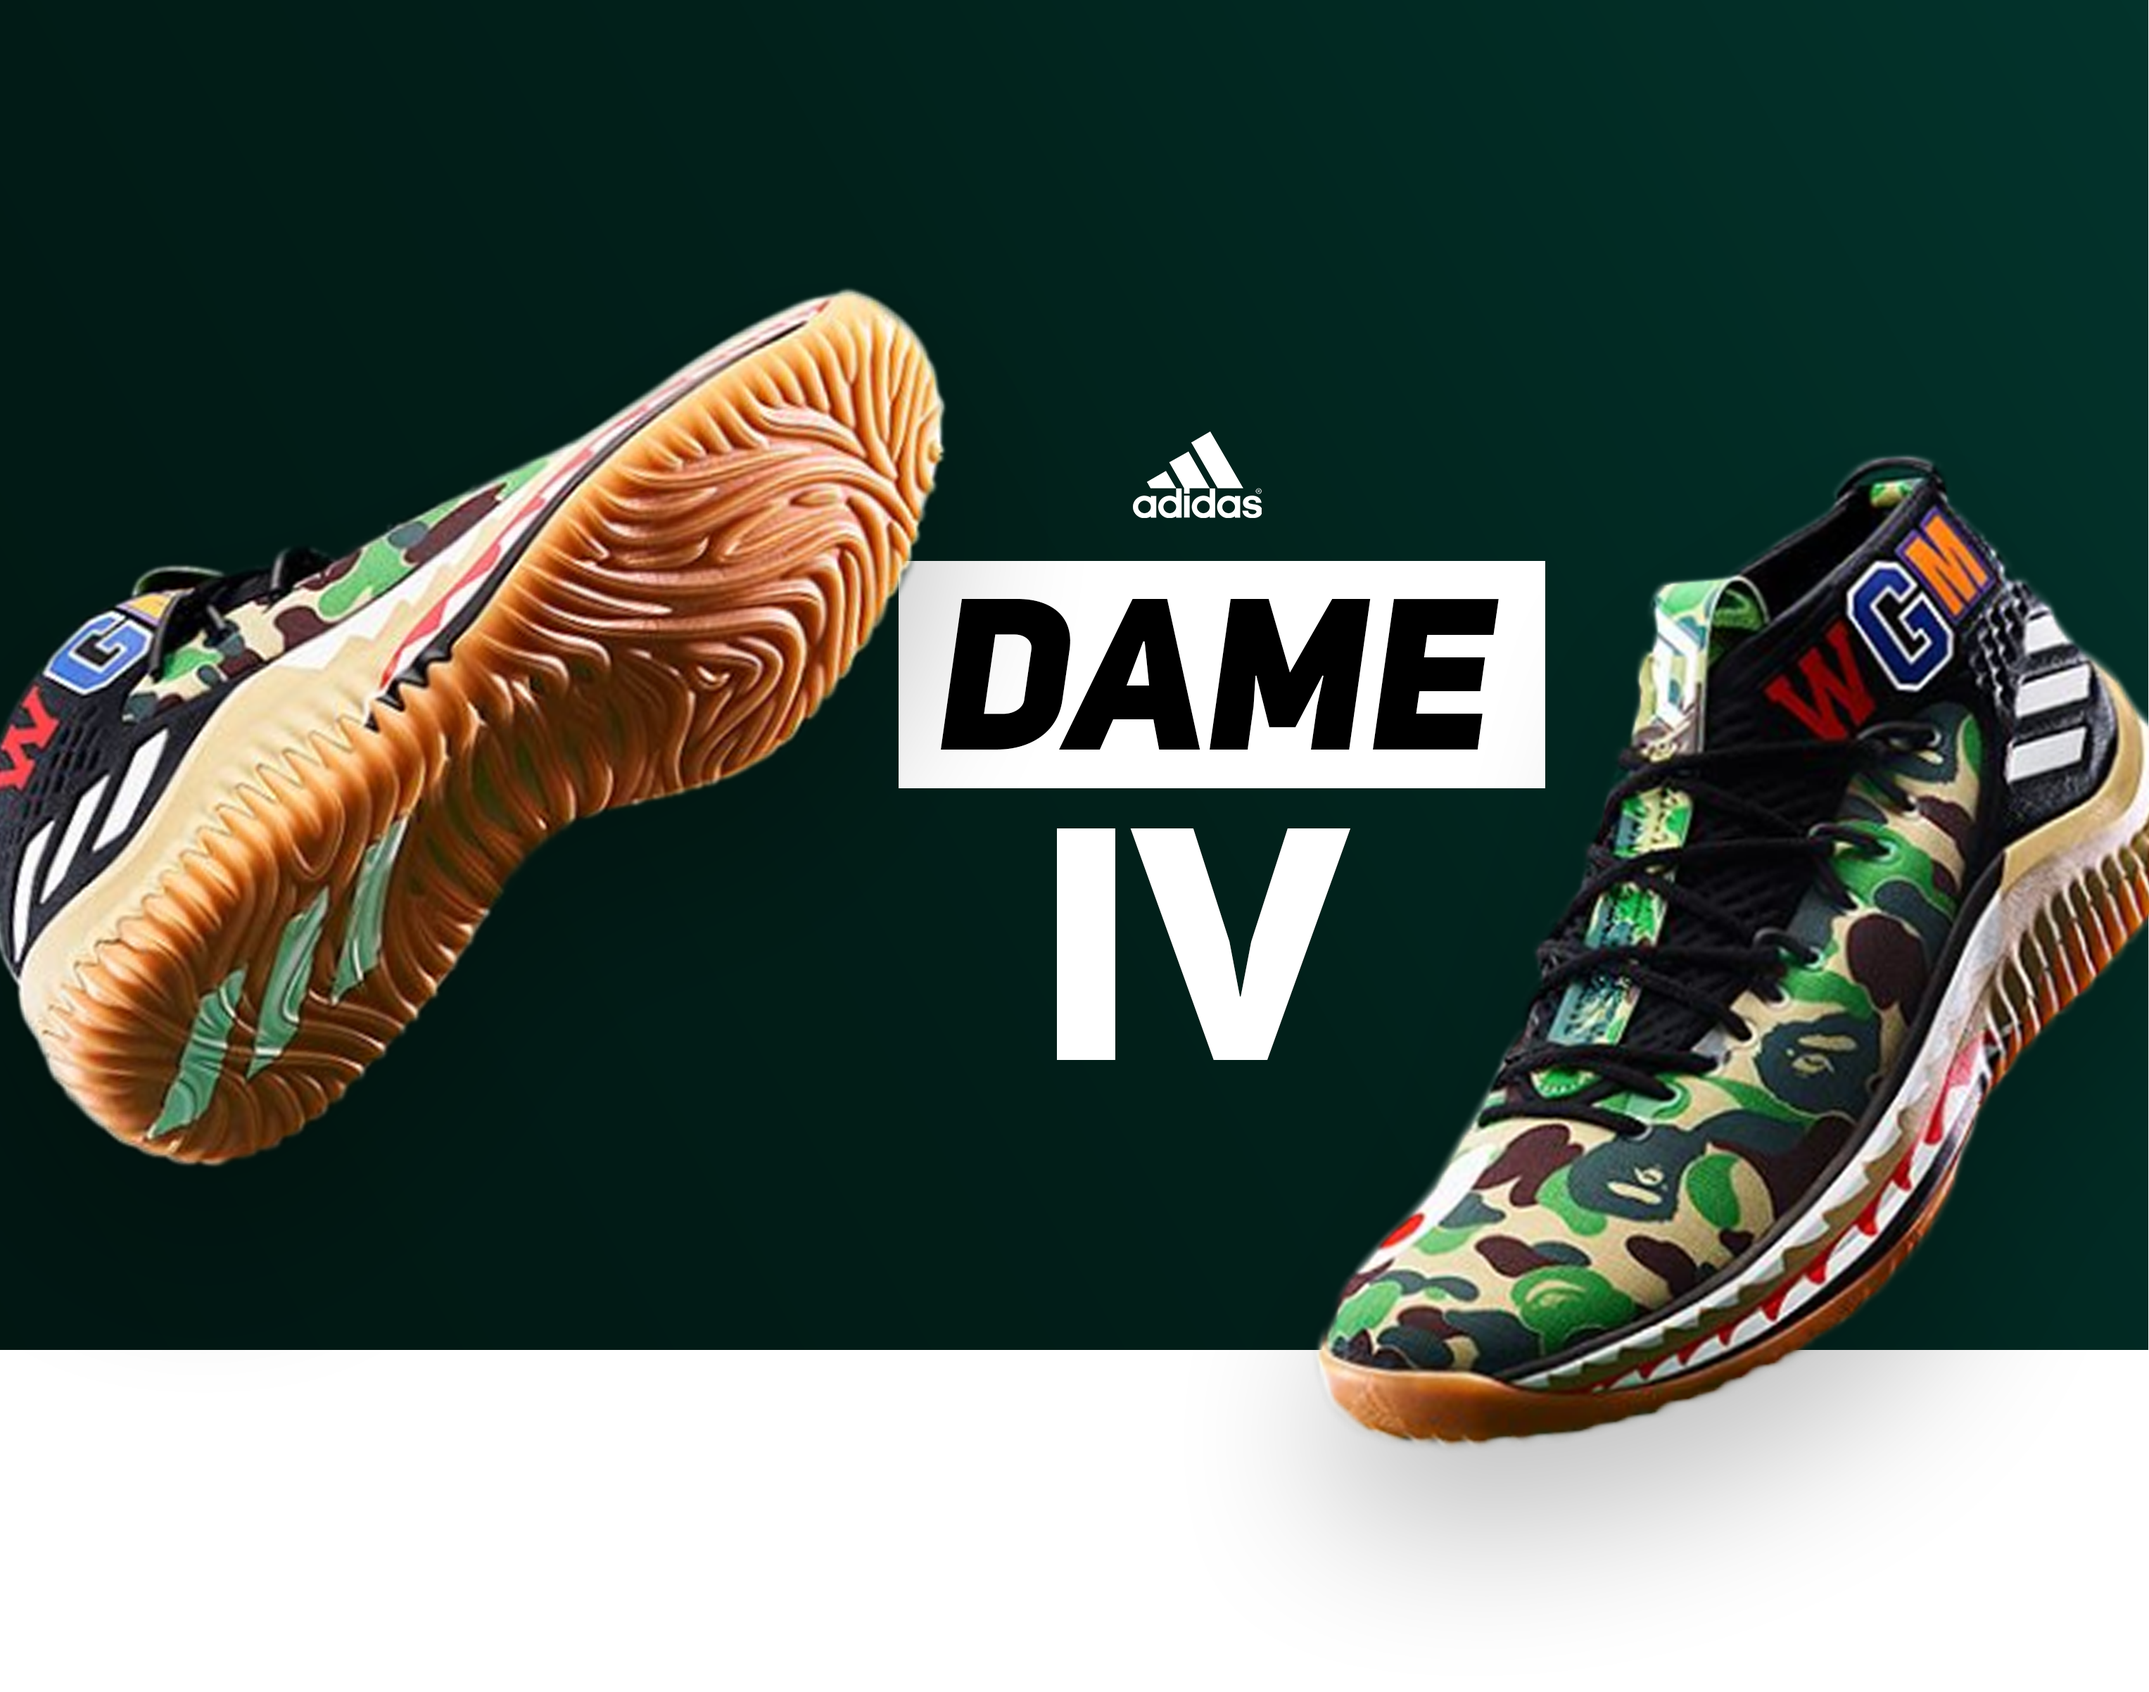
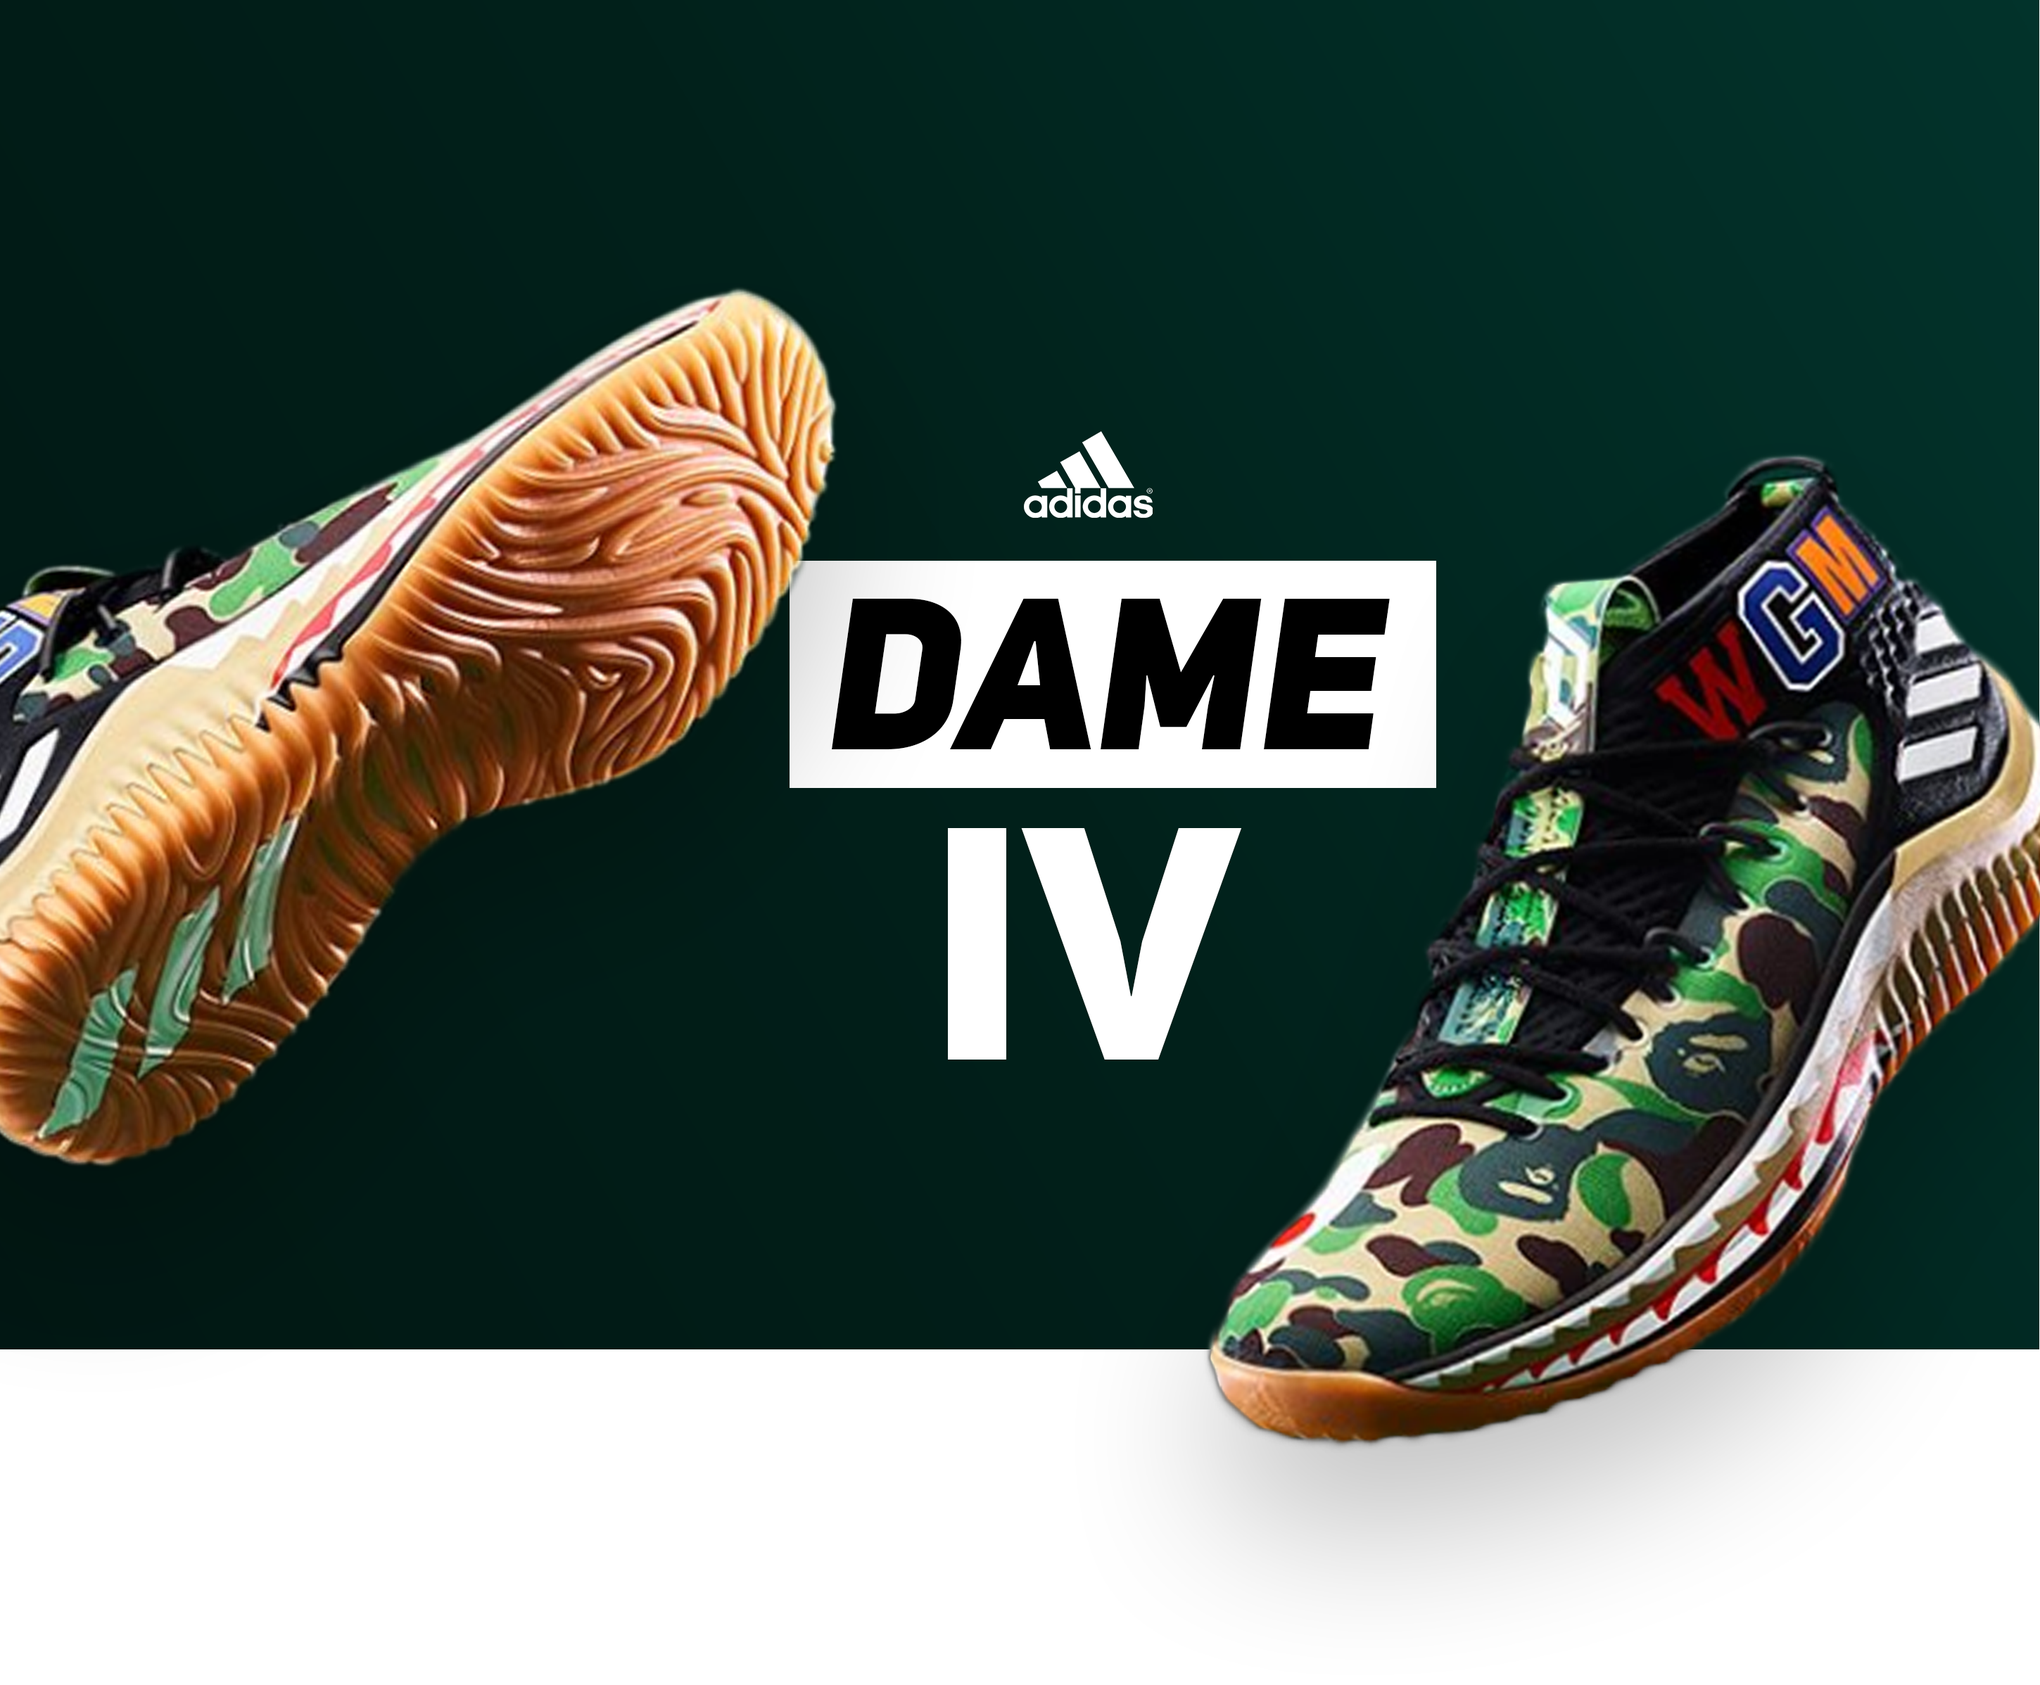
update 1.2

Changed region(s): [[0.0, 0.1545, 1.0, 0.8651], [0.4967, 0.2472, 0.5899, 0.309]]

diff --git a/index.html b/index.html
@@ -34,7 +34,7 @@
     <!--  Top Navbar -->
     <div class="mynav">
 
-        <nav class="navbar navbar-expand-sm navbar-dark sticky-top bg-dark py-4">
+        <nav class="navbar navbar-expand-sm navbar-dark bg-dark py-4">
             <div class="container">
                 <button class="navbar-toggler navbar-toggler-right" type="button" data-toggle="collapse" data-target="#navbar1">
                   <span class="navbar-toggler-icon"></span>
@@ -69,11 +69,34 @@
                 <!-- <img class="ml-4" src="./images/adidas.png" width="65" height="50" alt="Shopping cart icon"> -->
               </div>
           </nav>
-
-
-
+        
     </div>
-  </div>
+
+    <div class="row">
+        <div class="col text-center btn1">
+          <button type="button" class="btn btn-primary-outline">SHOP NOW</button>
+        </div>
+    </div>
+
+    <div class="row">
+      <div class="col text-center">
+        <p class="desc" style=" font-style: italic; font-size: 18px;">The Adidas dame iv (4) was made by <br> bape_japan x damianlillard <br> and its a big part of <br>the "Adidas originals" collection</p>
+      </div>
+    </div>
+
+      <div class="row" style="margin-top: 5%";>
+          <div class="group px-5">
+            <!-- <img class="ml-4 pic" src="./images/pic1.png" width="40%" height="40%" alt="man with tennis balls"> -->
+              <div class="back">
+                  <div class="texts">
+                      <p class="topText"> COURT <br> KITS </p> <br> 
+                      <p class="desc">our court ready kits celebrates the glory days of the 70s and 80s. Avaliable from july 3rd at <a href="#">PALACESKATEBOARDS</a> <br><br>  Shop the collection in store at hunbury st, champs-elysees 5th avenue and at <a href="#">PALACE NYC</a> and <a href="#">LONDON</a></p>
+                  </div>
+              </div>
+          </div>
+      </div>
+ 
+    </div>
 
   <!-- Optional JavaScript -->
   <!-- jQuery first, then Popper.js, then Bootstrap JS -->

diff --git a/css/style.css b/css/style.css
@@ -57,15 +57,65 @@ body {
     font-weight: 500;
 }
 
+.btn-primary-outline {
+    background-color: transparent;
+    border-color: #ccc;
+    color: #FFF
+}
 
+.btn1{
+    margin-top: -22%;
+}
 
+.btn{
+    transition: transform .2s;
+    box-shadow: none;
+    text-decoration: none;
+}
+.btn:hover {
+    transform: scale(1.1);
+    color: #fff;
+    text-decoration: none;
+    box-shadow: none;
+}
+
+.desc{
+    font-family: 'USRegular', sans-serif;
+    text-transform: uppercase;
+    color: #111;
+    line-height: 1.2;
+    font-size: 16px;
+    
+}
+
+.group{
+    
+}
+
+.back{
+    background-color: #ededed;
+}
+
+.texts{
+    padding: 7%; 
+    width: 60%;
+}
+.topText{
+    font-family: 'USHeavy', sans-serif; 
+    font-size: 5em;
+    color: #000;
+}
+.trans {
+    background-color: transparent !important;
+}
 /*********** Navbar ***********/
 .mynav{ 
     background-image: url("../images/shoe1.png"); 
-    width:100%; 
-    height:800px; 
     background-repeat: no-repeat;
-    background-size: 100%; 
+    width:100%; 
+    height:950px; 
+    background-repeat: no-repeat;
+    background-size: 100% 103%; 
 }
 
 .navbar{
@@ -103,3 +153,4 @@ body {
 .navbar form button:hover{ 
     background-color: #000; 
 }
+
